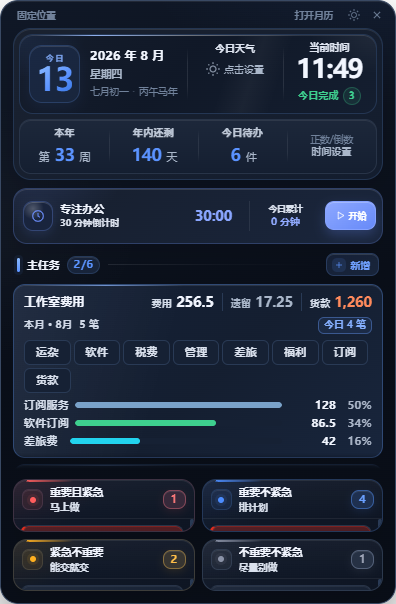
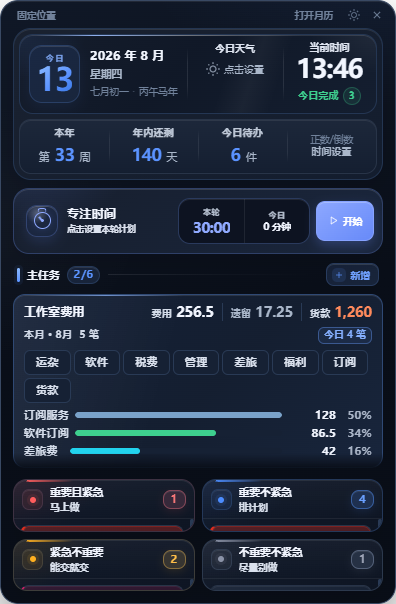
chore: release 0.1.11

diff --git a/README.en.md b/README.en.md
@@ -18,7 +18,7 @@ It is designed for people who want one account-free Windows workspace to answer 
 
 [![Download from GitHub Releases](https://img.shields.io/badge/Download-GitHub%20Releases-0969da?style=for-the-badge&logo=github)](https://github.com/bigelephant-code/TimeMasterV2/releases/latest)
 
-> **Version and provenance:** `v0.1.3` preserves the original unsigned owner-produced installer. The current `0.1.10` Windows x64 version continues from the editable, buildable **source-equivalent reconstruction** derived from that artifact; it is not the lost original Vue source tree and is not claimed to reproduce 0.1.3 byte for byte. The installer is not Authenticode-signed. Use the actual assets and SHA-256 published on [GitHub Releases](https://github.com/bigelephant-code/TimeMasterV2/releases). See the [recovery notes](docs/RECOVERY.md).
+> **Version and provenance:** `v0.1.3` preserves the original unsigned owner-produced installer. The current `0.1.11` Windows x64 version continues from the editable, buildable **source-equivalent reconstruction** derived from that artifact; it is not the lost original Vue source tree and is not claimed to reproduce 0.1.3 byte for byte. The installer is not Authenticode-signed. Use the actual assets and SHA-256 published on [GitHub Releases](https://github.com/bigelephant-code/TimeMasterV2/releases). See the [recovery notes](docs/RECOVERY.md).
 
 ## Features
 
@@ -32,6 +32,12 @@ It is designed for people who want one account-free Windows workspace to answer 
 | Expense ledger | Date-based entries, corrections, history, and Excel reconciliation export |
 | Desktop widget | Date, lunar calendar, weather, milestones, focus state, main tasks, and today's matrix |
 | Local data | Atomic JSON writes, damaged-file preservation, automatic backups, and recovery |
+
+### 0.1.11 formal release (2026-08-13)
+
+- Renames the widget feature to Focus Time and reorganizes its idle card around the session plan, today's total, and one clear start action.
+- Starting a session flips the card into a dark running face with a prominent large red countdown and grouped pause, resume, and cancel controls.
+- Replaces the former clock mark with a recognizable stopwatch icon featuring a round dial, top pusher, and countdown hand.
 
 ### 0.1.10 formal release (2026-08-13)
 
@@ -99,7 +105,7 @@ All screenshots, including the desktop widget above, were captured in an isolate
 ## Privacy, security, and support
 
 - Tasks, focus records, goals, expenses, and settings stay in `%APPDATA%\timemaster-v2\` by default.
-- The app has no account system, ads, subscriptions, analytics, or telemetry. Weather remains the only intentionally network-backed feature in releases 0.1.3 through 0.1.10; when enabled, it sends a city-search string or rounded coordinates to Open-Meteo. Expense-category management, rollover/completion history, and the visual refresh add no network destination or third-party data sharing.
+- The app has no account system, ads, subscriptions, analytics, or telemetry. Weather remains the only intentionally network-backed feature in releases 0.1.3 through 0.1.11; when enabled, it sends a city-search string or rounded coordinates to Open-Meteo. Expense-category management, rollover/completion history, and the visual refresh add no network destination or third-party data sharing.
 - The main and widget renderers use Electron's renderer sandbox and context isolation, disable Node integration, and reach native capabilities through an explicit preload/IPC allowlist.
 - Read the [privacy notice](PRIVACY.md) for data flows and deletion, the [threat model](docs/THREAT_MODEL.md) for assumptions and residual risks, [support guidance](SUPPORT.md) for help, and [SECURITY.md](SECURITY.md) for private vulnerability reporting.
 - The default branch is checked by Windows CI and CodeQL; Dependabot checks npm and GitHub Actions updates monthly. Automation does not replace human review or provide a security guarantee.
@@ -108,7 +114,7 @@ Local-first does not mean invulnerable: TimeMaster does not encrypt its applicat
 
 ## Installer integrity
 
-The formal `0.1.10` artifact is the Windows x64 NSIS installer `TimeMaster-Setup-0.1.10.exe`. It is **not Authenticode-signed**. Use only the actual installer supplied through a trusted channel and verify the SHA-256 published alongside that artifact. Version text in this README is not a substitute for an artifact hash and does not mean that an installer has already been uploaded to GitHub Releases.
+The formal `0.1.11` artifact is the Windows x64 NSIS installer `TimeMaster-Setup-0.1.11.exe`. It is **not Authenticode-signed**. Use only the actual installer supplied through a trusted channel and verify the SHA-256 published alongside that artifact. Version text in this README is not a substitute for an artifact hash and does not mean that an installer has already been uploaded to GitHub Releases.
 
 The original 0.1.3 artifact remains preserved as the recovery source and immutable reference. Its filename and SHA-256 are recorded below.
 
@@ -166,7 +172,7 @@ The smoke test uses explicitly isolated temporary `userData` and session directo
 ## Source and version boundaries
 
 ```text
-src/                       editable, buildable source-equivalent input for 0.1.10
+src/                       editable, buildable source-equivalent input for 0.1.11
 runtime/                   immutable golden reference extracted from the original 0.1.3 app.asar
 legacy/litecal-0.1.0/      historical modular LiteCal 0.1.0 source, for migration reference only
 tests/                     IPC and security contract tests

diff --git a/README.md b/README.md
@@ -18,7 +18,7 @@
 
 [![从 GitHub Releases 下载](https://img.shields.io/badge/下载-GitHub%20Releases-0969da?style=for-the-badge&logo=github)](https://github.com/bigelephant-code/TimeMasterV2/releases/latest)
 
-> **版本与来源：** `v0.1.3` 保留项目所有者制作的原始、未签名 Windows 安装包。当前 `0.1.10` Windows x64 版本沿用从 0.1.3 产物重建的可编辑、可构建 **source-equivalent reconstruction**；它不是丢失的原始 Vue 源码，也不保证与 0.1.3 逐字节一致。安装包未经过 Authenticode 签名，实际下载内容与 SHA-256 以 [GitHub Releases](https://github.com/bigelephant-code/TimeMasterV2/releases) 附件为准。详见 [恢复记录](docs/RECOVERY.md)。
+> **版本与来源：** `v0.1.3` 保留项目所有者制作的原始、未签名 Windows 安装包。当前 `0.1.11` Windows x64 版本沿用从 0.1.3 产物重建的可编辑、可构建 **source-equivalent reconstruction**；它不是丢失的原始 Vue 源码，也不保证与 0.1.3 逐字节一致。安装包未经过 Authenticode 签名，实际下载内容与 SHA-256 以 [GitHub Releases](https://github.com/bigelephant-code/TimeMasterV2/releases) 附件为准。详见 [恢复记录](docs/RECOVERY.md)。
 
 ## 功能概览
 
@@ -32,6 +32,12 @@
 | 费用台账 | 按日期记账、历史明细、补录识别和 Excel 对账导出 |
 | 桌面小组件 | 日期、农历、天气、时间节点、专注、主任务和今日四象限 |
 | 本地数据 | JSON 原子写入、损坏文件留档、自动备份与恢复 |
+
+### 0.1.11 正式版（2026-08-13）
+
+- 桌面小组件“专注办公”更名为“专注时间”，待机界面重新组织为名称、本轮计划、今日累计和开始操作。
+- 开始专注后卡片翻转为深色运行面，以醒目的大号红色字体显示倒计时；暂停、继续和取消操作集中排列。
+- 原小时钟替换为清晰的倒计时秒表图标，包含圆形表盘、顶部按键和内部指针。
 
 ### 0.1.10 正式版（2026-08-13）
 
@@ -99,7 +105,7 @@
 ## 隐私、安全与支持
 
 - 待办、专注记录、主任务、费用台账和设置默认保存在本机 `%APPDATA%\timemaster-v2\`。
-- 应用没有账号体系、广告、会员、分析或遥测上报。天气仍是 0.1.3—0.1.10 正式版中唯一有意联网的功能；启用后会向 Open-Meteo 发送城市搜索文本或经过取整的经纬度。费用分类管理、延期/完成历史和界面改版不增加联网目的地或第三方数据共享。
+- 应用没有账号体系、广告、会员、分析或遥测上报。天气仍是 0.1.3—0.1.11 正式版中唯一有意联网的功能；启用后会向 Open-Meteo 发送城市搜索文本或经过取整的经纬度。费用分类管理、延期/完成历史和界面改版不增加联网目的地或第三方数据共享。
 - 主窗口和小组件启用 Electron renderer sandbox 与 `contextIsolation`、关闭 Node 集成，并通过显式 preload/IPC 白名单访问原生能力。
 - 详细数据流、删除方式和联网边界见 [隐私说明](PRIVACY.md)；安全假设与剩余风险见 [威胁模型](docs/THREAT_MODEL.md)；使用帮助见 [支持说明](SUPPORT.md)；漏洞请按 [安全政策](SECURITY.md) 私下报告。
 - 默认分支由 Windows CI 和 CodeQL 自动检查；Dependabot 每月检查 npm 与 GitHub Actions 更新。自动检查不能替代人工审查，也不构成安全保证。
@@ -108,7 +114,7 @@
 
 ## 安装包完整性
 
-`0.1.10` 的正式产物为 Windows x64 NSIS 安装包 `TimeMaster-Setup-0.1.10.exe`，**未经过 Authenticode 签名**。请只使用可信来源提供的实际安装包，并核对与该产物一同发布的 SHA-256；本 README 不以版本文字代替实际文件哈希，也不表示安装包已经上传到 GitHub Release。
+`0.1.11` 的正式产物为 Windows x64 NSIS 安装包 `TimeMaster-Setup-0.1.11.exe`，**未经过 Authenticode 签名**。请只使用可信来源提供的实际安装包，并核对与该产物一同发布的 SHA-256；本 README 不以版本文字代替实际文件哈希，也不表示安装包已经上传到 GitHub Release。
 
 原始 0.1.3 产物继续作为恢复来源和不可变参考保留。其文件名与 SHA-256 如下：
 
@@ -166,7 +172,7 @@ smoke test 使用显式隔离的临时 `userData` 与 session 目录，不读取
 ## 目录与版本边界
 
 ```text
-src/                       0.1.10 的可编辑、可构建 source-equivalent 输入
+src/                       0.1.11 的可编辑、可构建 source-equivalent 输入
 runtime/                   从原始 0.1.3 app.asar 提取的不可变黄金参考
 legacy/litecal-0.1.0/      历史 LiteCal 0.1.0 模块化源码，仅作迁移参考
 tests/                     IPC 与安全契约测试

diff --git a/PRIVACY.md b/PRIVACY.md
@@ -2,11 +2,11 @@
 
 Last updated: 2026-08-13
 
-Applies to: the TimeMaster 0.1.10 formal Windows x64 release and the preserved TimeMaster V2 0.1.3 release artifact. Version-specific behavior is identified below.
+Applies to: the TimeMaster 0.1.11 formal Windows x64 release and the preserved TimeMaster V2 0.1.3 release artifact. Version-specific behavior is identified below.
 
 TimeMaster is a local-first Windows application. It has no account system, advertising, analytics, telemetry, remote crash reporting, or automatic-update service. The project maintainer does not automatically receive your tasks, focus history, goals, expense categories or entries, settings, or exported workbooks. Expense-category, rollover-history, and interface changes add no new network destination or third-party data sharing.
 
-Current released behavior refers to 0.1.10; the original 0.1.3 artifact remains documented as the recovery/reference release. A modified build, operating system, network intermediary, or third-party distribution may behave differently. This notice describes the finalized 0.1.10 behavior but does not assert that its installer has already been uploaded to GitHub Releases.
+Current released behavior refers to 0.1.11; the original 0.1.3 artifact remains documented as the recovery/reference release. A modified build, operating system, network intermediary, or third-party distribution may behave differently. This notice describes the finalized 0.1.11 behavior but does not assert that its installer has already been uploaded to GitHub Releases.
 
 ## Data stored on your computer
 
@@ -47,7 +47,7 @@ Each expense entry stores a stable category ID. Renaming a category changes the 
 
 ## Network activity
 
-Core calendar, task, focus, goal, reminder, and expense functions do not require an account or cloud service. Weather is the only feature in both the 0.1.3 and 0.1.10 releases that intentionally calls an Internet service.
+Core calendar, task, focus, goal, reminder, and expense functions do not require an account or cloud service. Weather is the only feature in releases 0.1.3 through 0.1.11 that intentionally calls an Internet service.
 
 ### City search
 
@@ -109,7 +109,7 @@ If you open an Issue, Discussion, pull request, or security report, the informat
 
 ## Release integrity
 
-The formal 0.1.4 Windows x64 installer and the recovered 0.1.3 installer are not Authenticode-signed. Windows therefore cannot verify a publisher identity for them and may show a SmartScreen warning. Obtain an installer through a trusted official channel and compare the SHA-256 published alongside that exact artifact before running it. A matching hash confirms file equality with the referenced artifact; it does not replace code signing or guarantee that a program is harmless. This notice does not claim that a 0.1.4 installer has already been uploaded to GitHub Releases.
+The formal 0.1.11 Windows x64 installer and the recovered 0.1.3 installer are not Authenticode-signed. Windows therefore cannot verify a publisher identity for them and may show a SmartScreen warning. Obtain an installer through a trusted official channel and compare the SHA-256 published alongside that exact artifact before running it. A matching hash confirms file equality with the referenced artifact; it does not replace code signing or guarantee that a program is harmless. This notice does not claim that a 0.1.11 installer has already been uploaded to GitHub Releases.
 
 ## Questions
 

diff --git a/docs/THREAT_MODEL.md b/docs/THREAT_MODEL.md
@@ -2,7 +2,7 @@
 
 Last reviewed: 2026-08-13
 
-Target: the TimeMaster 0.1.10 formal release and the preserved TimeMaster V2 0.1.3 release artifact on Windows x64
+Target: the TimeMaster 0.1.11 formal release and the preserved TimeMaster V2 0.1.3 release artifact on Windows x64
 
 This is a practical threat model for maintainers and reviewers. It describes the current design and residual risks; it is not a security certification.
 
@@ -47,7 +47,7 @@ The main window's Content Security Policy does not permit Open-Meteo. The widget
 
 | Threat | Current controls | Residual risk |
 |---|---|---|
-| Tampered or impersonated installer | Official release hashes and documented recovery provenance | Both the formal 0.1.10 Windows x64 installer and preserved 0.1.3 installer are not Authenticode-signed; a hash is useful only when obtained through a trusted channel |
+| Tampered or impersonated installer | Official release hashes and documented recovery provenance | Both the formal 0.1.11 Windows x64 installer and preserved 0.1.3 installer are not Authenticode-signed; a hash is useful only when obtained through a trusted channel |
 | Local malware or another user reading records | Windows user-profile directory boundaries | Application data and exported workbooks are not encrypted by TimeMaster; a process running as the user can read or change them |
 | Renderer compromise reaching native APIs | Renderer sandbox, context isolation, Node integration disabled, preload allowlist, explicit IPC handlers, CSP | A renderer exploit may still reach capabilities exposed by a vulnerable or overly permissive IPC path |
 | Malformed or corrupted data | Temporary-file-and-rename writes, `data.backup.json`, non-overwriting pre-v4 migration copies, malformed-file preservation, model normalization | Backups and primary data live on the same disk; migration copies are not automatically rotated and can increase local sensitive-data retention; none protects against disk loss or ransomware |
@@ -72,7 +72,7 @@ The ordinary recovery file and the automatically created `data.pre-v4-*` source 
 
 In 0.1.5, deleting an expense-category button is implemented as an audit-preserving archive, not erasure. The category definition remains until the application data is removed; linked entries remain visible while retained, but the ledger automatically keeps only the newest 20,000 expense rows. Previously exported workbooks must be deleted separately. Renaming changes the label displayed for linked historical entries but does not rewrite their amounts, dates, notes, or IDs. The v3→v4 migration therefore requires explicit tests that preserve these relationships and keep legacy amounts visible.
 
-The 0.1.10 formal Windows x64 installer is unsigned. This threat model describes its finalized behavior and risk boundary but does not claim that a GitHub Release asset has already been uploaded.
+The 0.1.11 formal Windows x64 installer is unsigned. This threat model describes its finalized behavior and risk boundary but does not claim that a GitHub Release asset has already been uploaded.
 
 Uninstall is configured with `deleteAppDataOnUninstall: false`. This reduces accidental loss but means uninstalling is not a privacy erase. Complete deletion requires removing the exact V2 user-data directory after exit. LiteCal V1 uses a different directory and must not be merged or deleted as part of V2 cleanup.
 

diff --git a/SUPPORT.md b/SUPPORT.md
@@ -4,12 +4,12 @@ TimeMaster is a community-maintained, local-first open-source project. Support i
 
 ## Supported version and platform
 
-- Current maintained release: `0.1.10` (formal Windows x64 release, finalized 2026-08-13)
+- Current maintained release: `0.1.11` (formal Windows x64 release, finalized 2026-08-13)
 - Preserved recovery/reference release: `0.1.3`
 - Primary platform: Windows x64
 - Current data directory: `%APPDATA%\timemaster-v2\`
 
-The formal 0.1.10 installer and the preserved 0.1.3 installer are not Authenticode-signed. Windows may show SmartScreen. This document describes supported versions; it does not claim that a 0.1.10 installer has already been uploaded to GitHub Releases.
+The formal 0.1.11 installer and the preserved 0.1.3 installer are not Authenticode-signed. Windows may show SmartScreen. This document describes supported versions; it does not claim that a 0.1.11 installer has already been uploaded to GitHub Releases.
 
 The historical LiteCal 0.1.0 source is retained as migration and architecture reference. It uses a different application identity and data directory. Do not merge the V1 and V2 directories while troubleshooting.
 
@@ -21,7 +21,7 @@ macOS, Linux, Windows on ARM, portable repackaging, modified builds, and third-p
 2. Exit the application from its tray menu, then restart it.
 3. If the problem concerns data, copy the complete `%APPDATA%\timemaster-v2\` directory to a safe location before changing or deleting anything. The Settings dialog can open the active data directory.
 4. Check existing Issues and the current [README](README.md), [ROADMAP](ROADMAP.md), and [privacy notes](PRIVACY.md).
-5. If you downloaded an installer, use a trusted official release channel and compare its published SHA-256 hash. Both the 0.1.10 and preserved 0.1.3 installers are unsigned and may trigger Windows SmartScreen.
+5. If you downloaded an installer, use a trusted official release channel and compare its published SHA-256 hash. Both the 0.1.11 and preserved 0.1.3 installers are unsigned and may trigger Windows SmartScreen.
 
 ## Where to report
 
@@ -65,7 +65,7 @@ This is expected. The installer deliberately preserves `%APPDATA%\timemaster-v2\
 
 ### Windows warns about the installer
 
-The formal 0.1.10 Windows x64 installer and the recovered 0.1.3 installer are not Authenticode-signed, so Windows cannot verify a publisher identity and may display SmartScreen. Verify the exact file's trusted source and compare its published SHA-256 value. Do not bypass a warning for an installer from an unknown source.
+The formal 0.1.11 Windows x64 installer and the recovered 0.1.3 installer are not Authenticode-signed, so Windows cannot verify a publisher identity and may display SmartScreen. Verify the exact file's trusted source and compare its published SHA-256 value. Do not bypass a warning for an installer from an unknown source.
 
 ## Scope limits
 

diff --git a/src/README.md b/src/README.md
@@ -1,6 +1,6 @@
 # Current source-equivalent reconstruction
 
-This directory is the editable build input for TimeMaster 0.1.10 development
+This directory is the editable build input for TimeMaster 0.1.11 development
 line. `npm run build` uses `electron-vite` to compile it into `out/`, and release
 packaging consumes only `out/`.
 

diff --git a/CHANGELOG.md b/CHANGELOG.md
@@ -2,7 +2,7 @@
 
 本项目遵循语义化版本编号。`0.1.4` 是基于 source-equivalent 重建工程定版的首个 Windows x64 正式版本；它不应被描述为原始 0.1.3 二进制的逐字节复现。
 
-## [未发布]
+## [0.1.11] - 2026-08-13
 
 ### 调整
 
